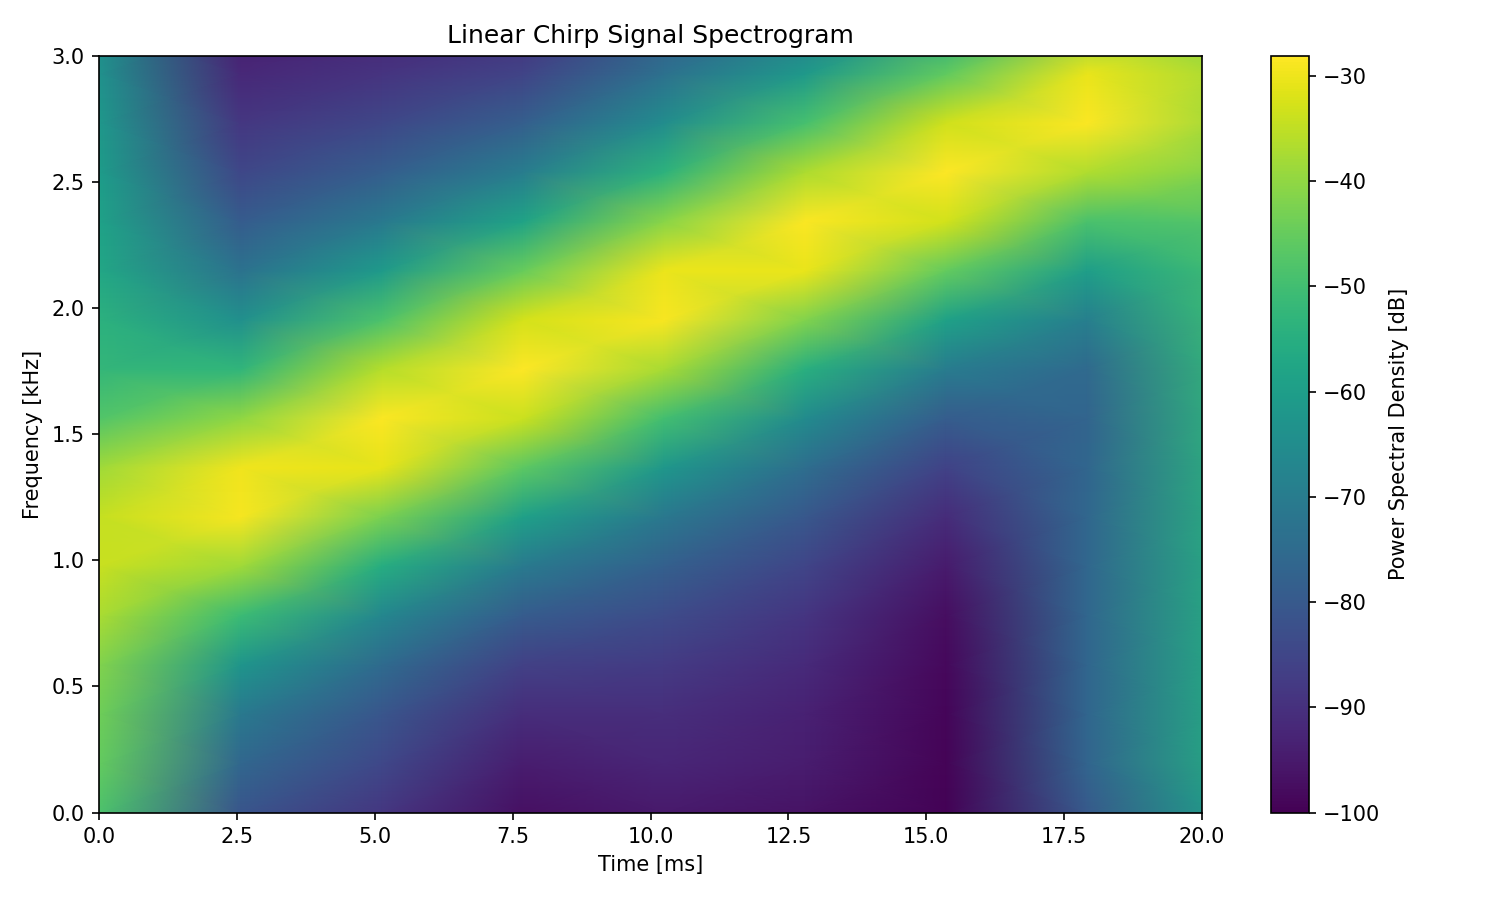
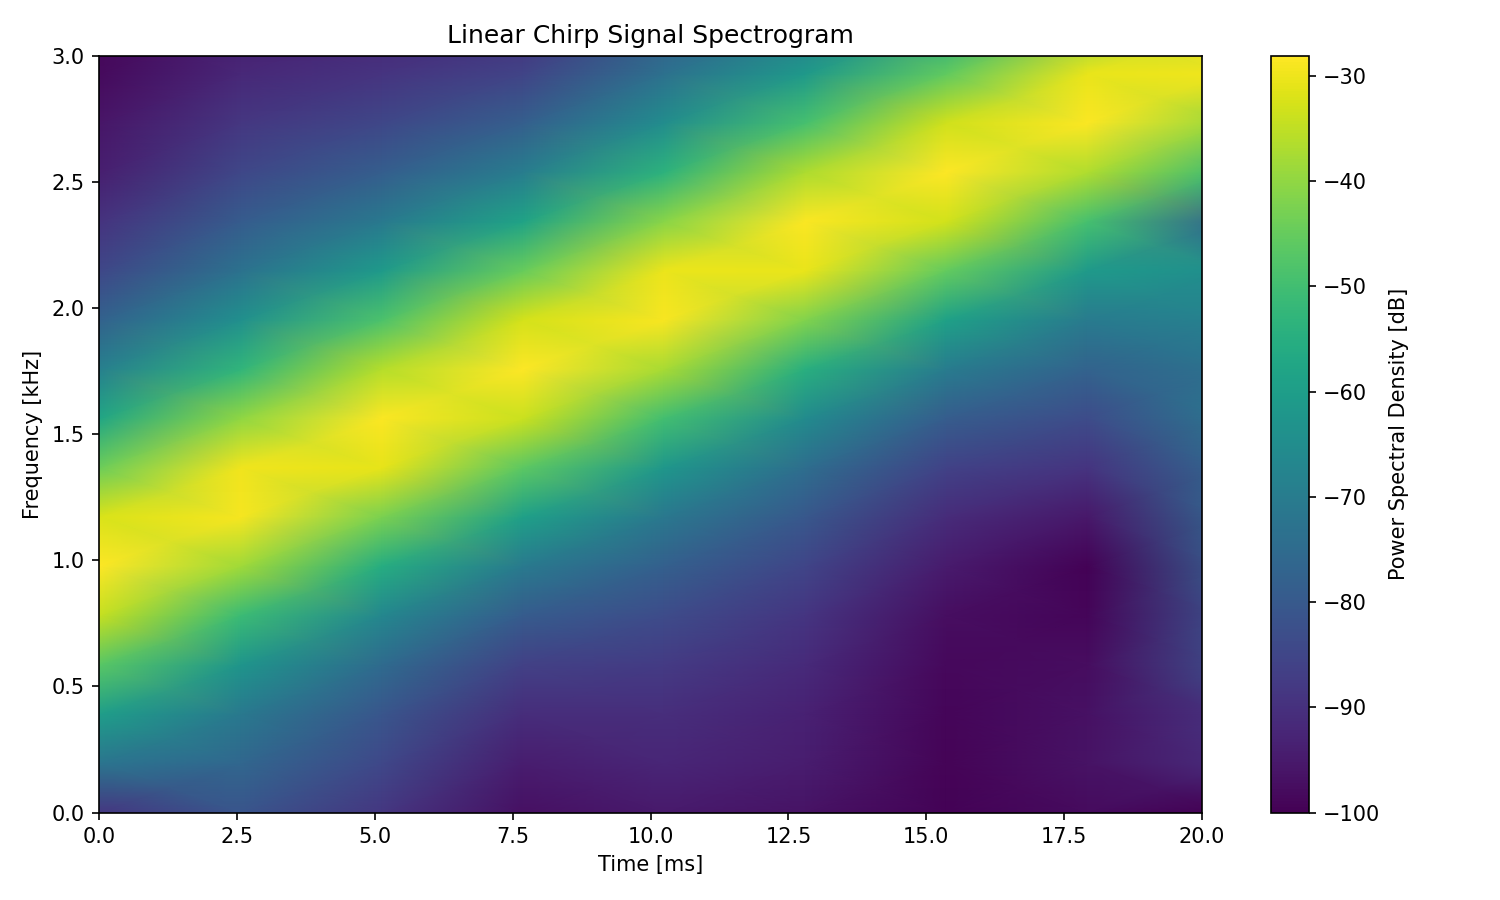
Update linear chirp info.

diff --git a/src/content/pages/programming/signal-processing/chirps/_assets/main.py b/src/content/pages/programming/signal-processing/chirps/_assets/main.py
@@ -53,16 +53,25 @@ def create_linear_chirp_spectrogram():
     # Generate linear chirp signal
     x = np.sin(phi_0 + 2*np.pi*(c/2*t**2 + f_0*t))
     
-    # Pad signal at beginning and end to avoid edge effects in spectrogram
+    # Pad signal at beginning and end to fill the entire spectrogram
     # NFFT=512 means window is 512/100000 = 5.12ms
-    # Pad with full window on each side to ensure complete coverage
+    # Pad with full window on each side to ensure coverage from 0 to 20ms
     nfft = 512
     pad_samples = nfft  # Use full window for padding
-    x_padded = np.pad(x, (pad_samples, pad_samples), mode='constant', constant_values=0)
     
-    # Create spectrogram - specgram plots automatically, get the data
+    # Extend the time array for the padded samples
+    t_pad_start = np.linspace(-pad_samples/sample_rate, 0, pad_samples, endpoint=False)
+    t_pad_end = np.linspace(duration, duration + pad_samples/sample_rate, pad_samples, endpoint=False)
+    t_extended = np.concatenate([t_pad_start, t, t_pad_end])
+    
+    # Generate chirp for padded regions too (extrapolate the chirp signal)
+    x_pad_start = np.sin(phi_0 + 2*np.pi*(c/2*t_pad_start**2 + f_0*t_pad_start))
+    x_pad_end = np.sin(phi_0 + 2*np.pi*(c/2*t_pad_end**2 + f_0*t_pad_end))
+    x_padded = np.concatenate([x_pad_start, x, x_pad_end])
+    
+    # Create spectrogram
     fig, ax = plt.subplots(figsize=(10, 6))
-    Pxx, freqs, bins, im = ax.specgram(x_padded, Fs=sample_rate, NFFT=nfft, noverlap=256, cmap='viridis')
+    Pxx, freqs, bins, im = ax.specgram(x_padded, Fs=sample_rate, NFFT=nfft, noverlap=nfft//2, cmap='viridis')
     
     # Adjust bins to account for padding - shift time back by pad duration
     pad_duration = pad_samples / sample_rate
